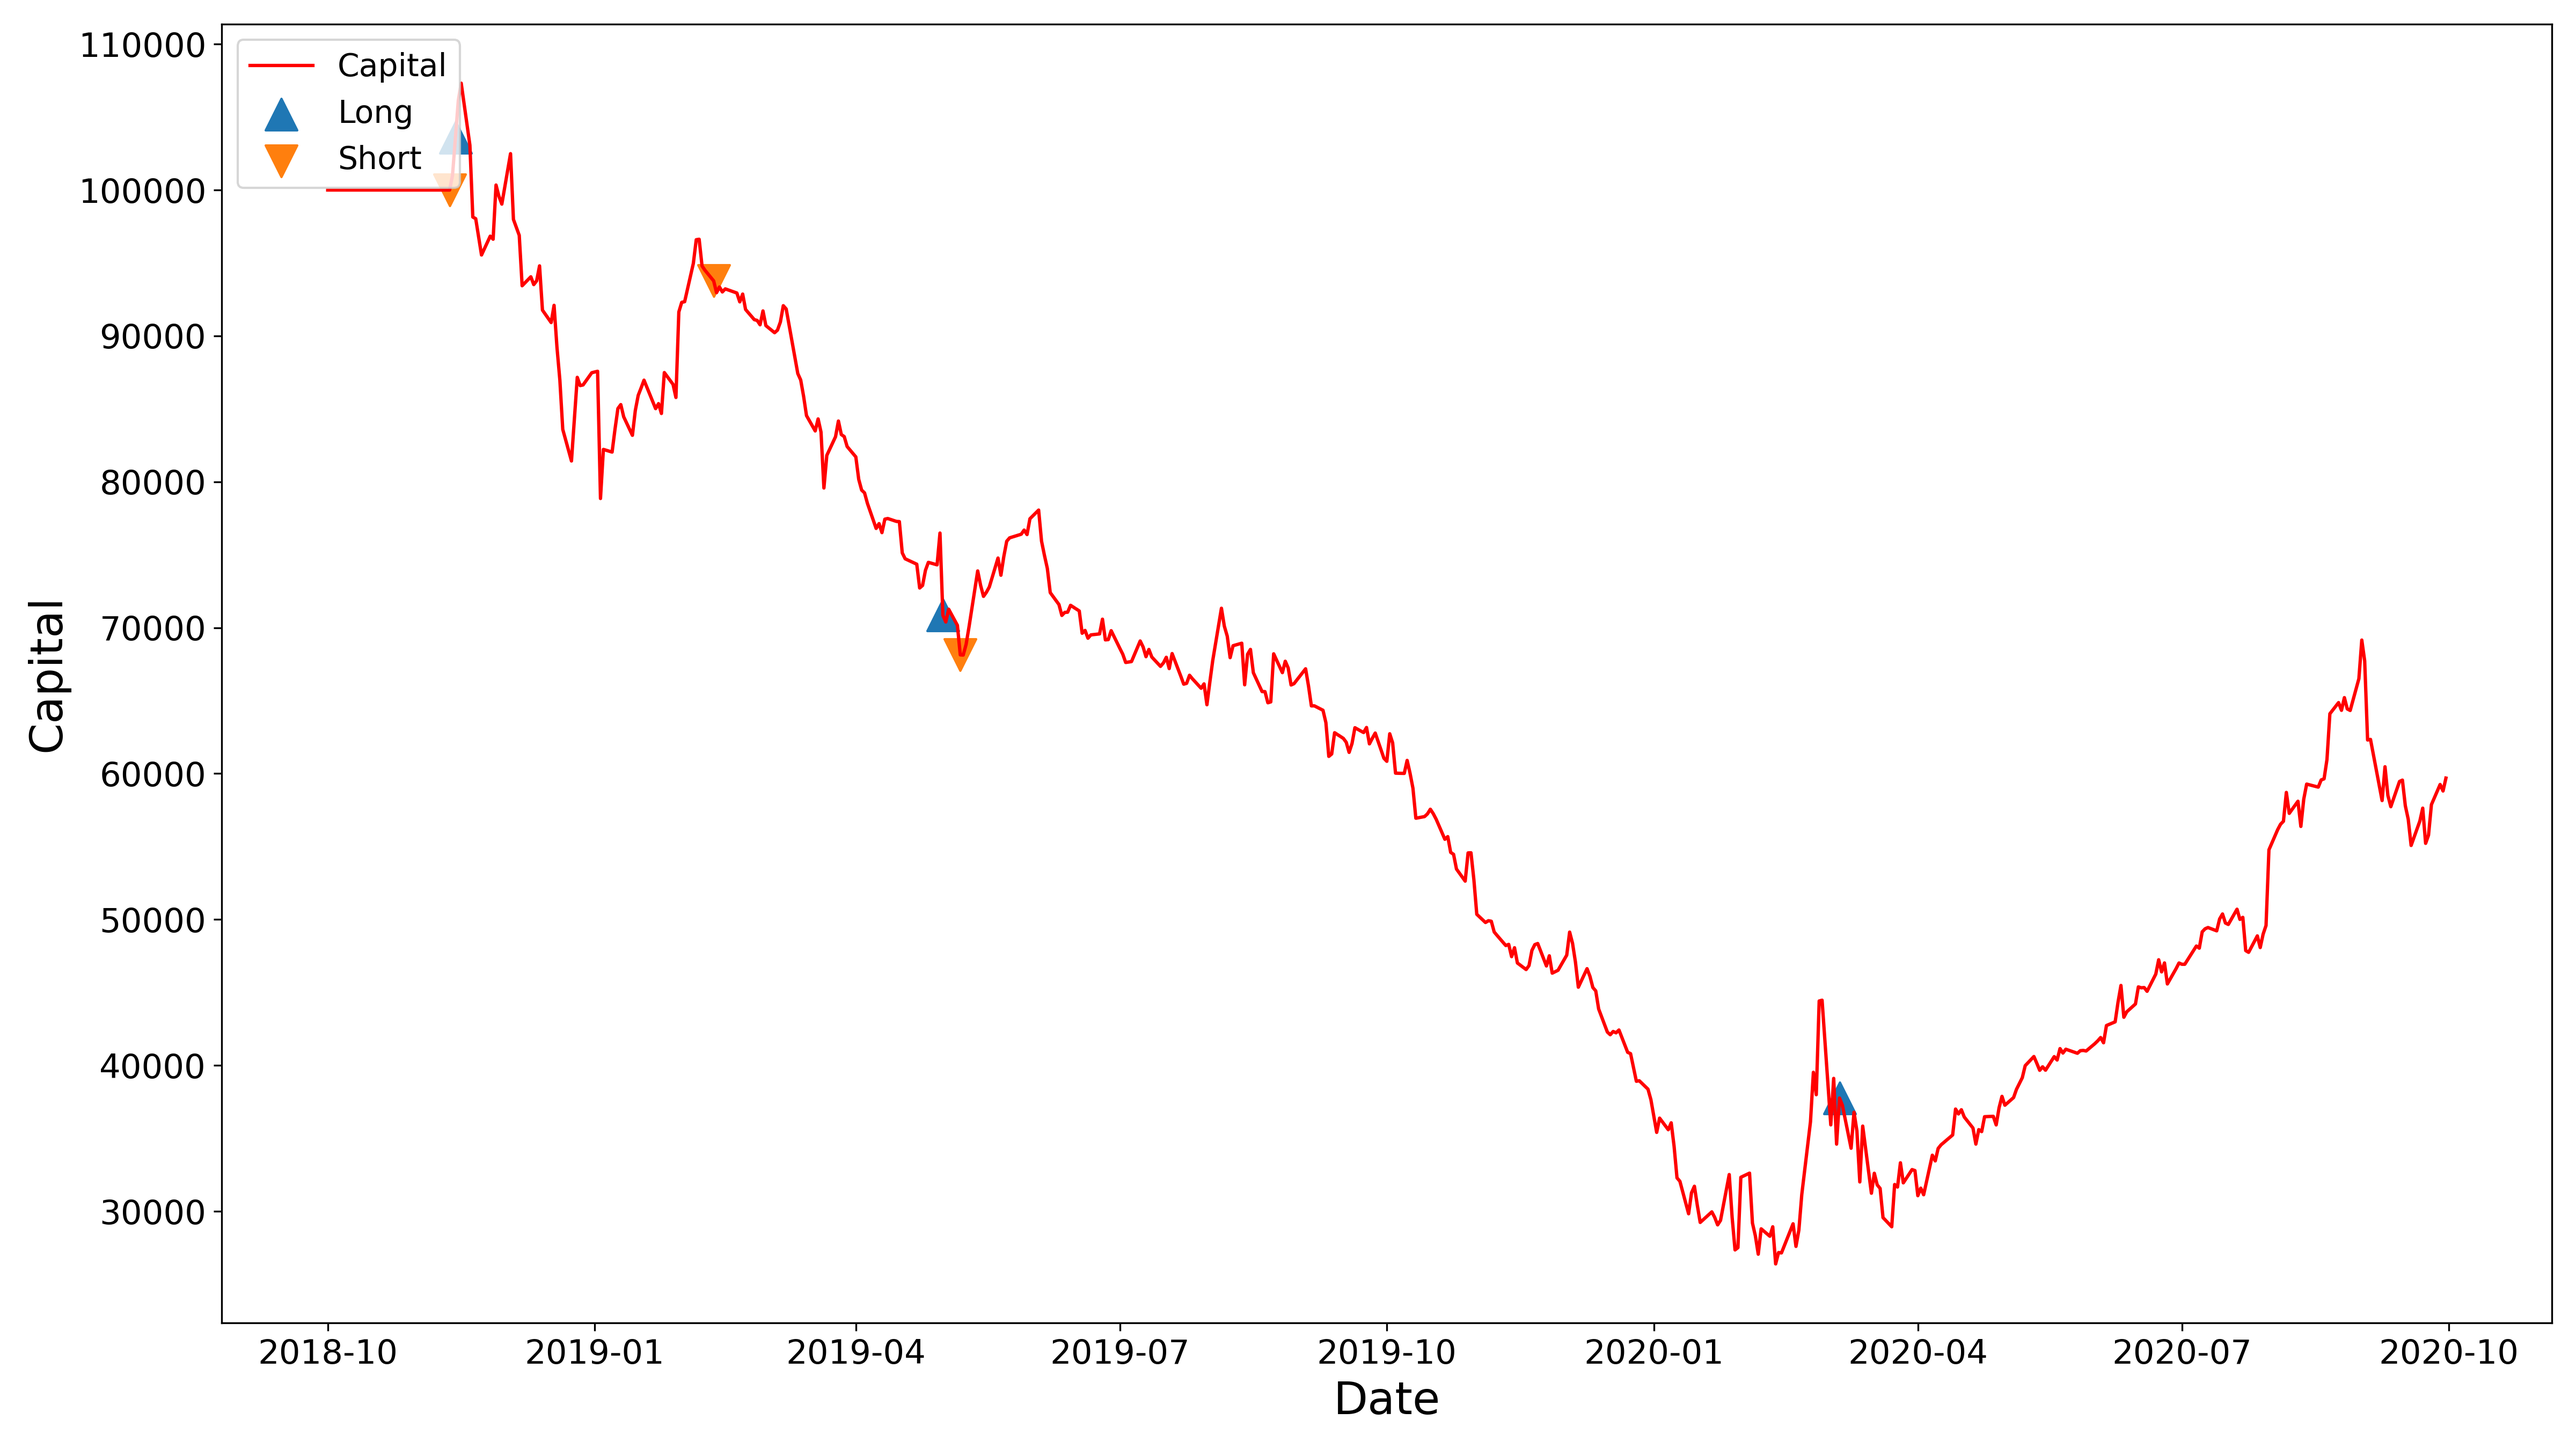
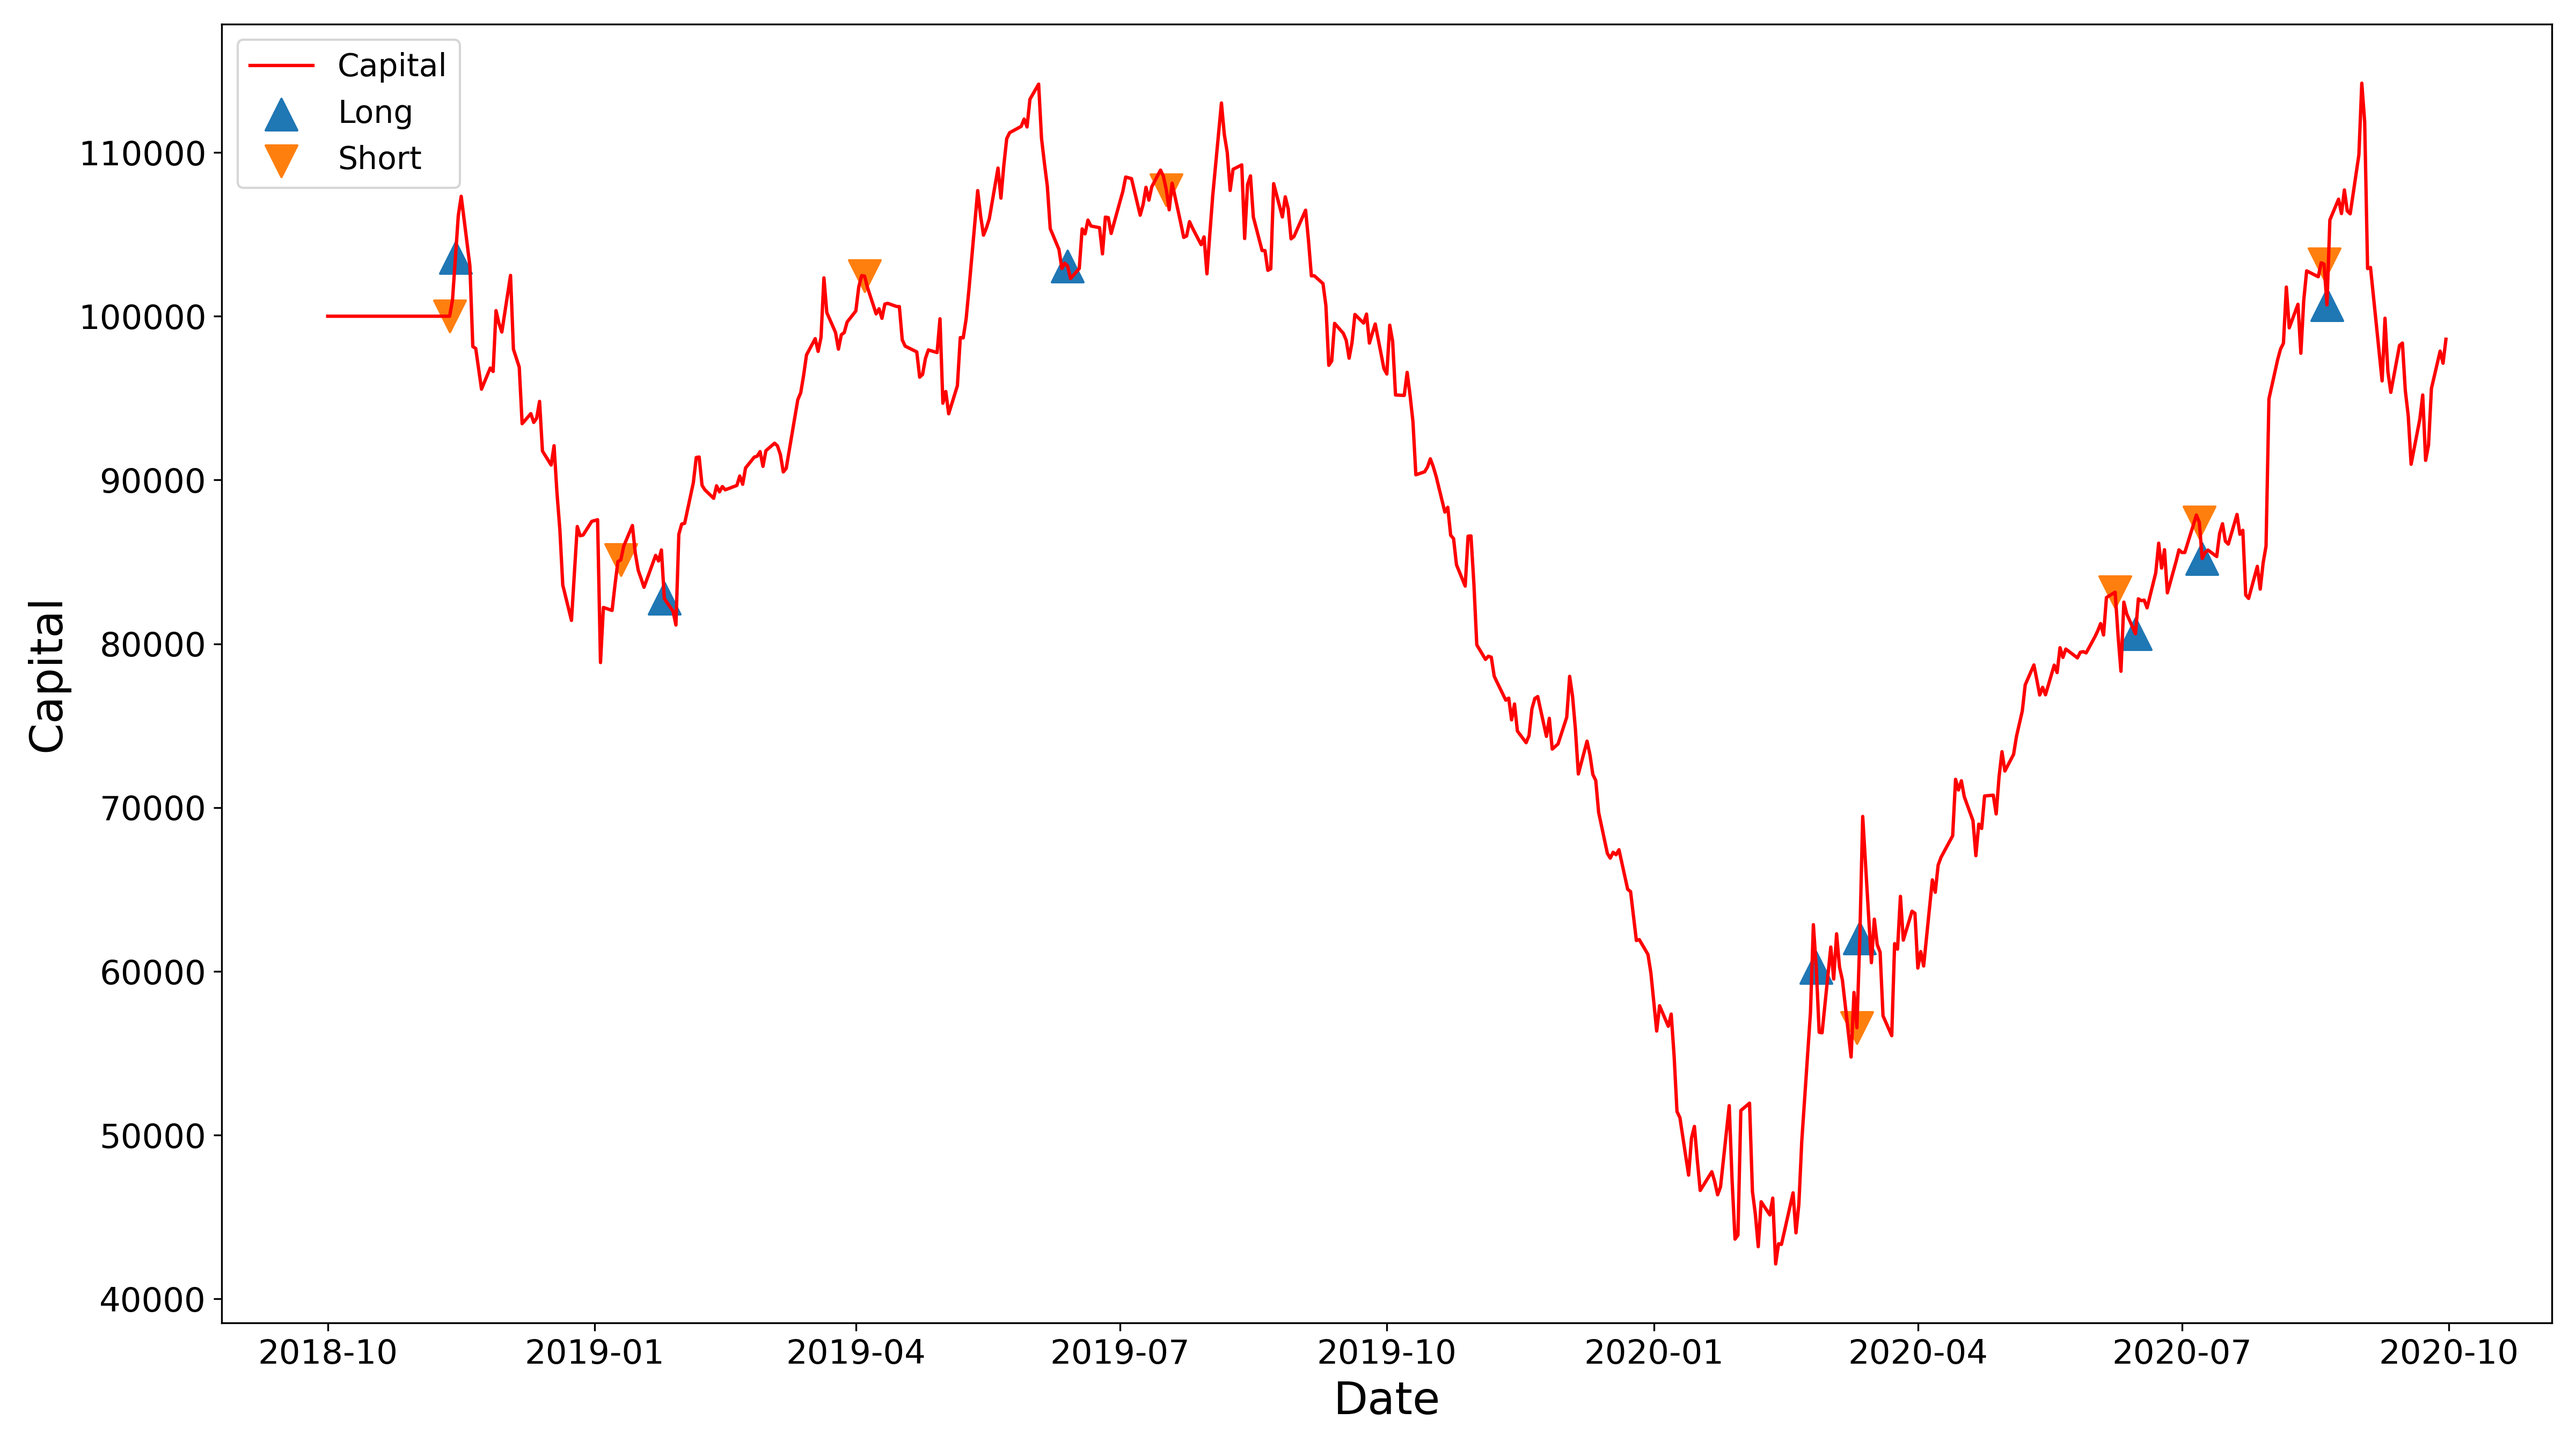
various training results are added

diff --git a/src/mainAAPL.py b/src/mainAAPL.py
@@ -11,9 +11,9 @@ import random
 import os
 
 device = torch.device('cuda:'+str(0) if torch.cuda.is_available() else 'cpu')
-torch.manual_seed(33)
-random.seed(33)
-np.random.seed(33)
+torch.manual_seed(0)
+random.seed(0)
+np.random.seed(0)
 
 # torch.manual_seed(44)
 # random.seed(44)
@@ -29,11 +29,11 @@ tdqnSettings = tdqn.tdqnSettings_(gamma=0.4,
                                   capacity=100000, 
                                   learningRate=0.0001,
                                   targetUpdateFrequency=500, 
-                                  batchSize=32, 
+                                  batchSize=64, 
                                   gradientClipping=1,
                                   targetNetworkUpdate = 1000, 
                                   alpha=0.1, 
-                                  numberOfEpisodes = 60,
+                                  numberOfEpisodes = 80,
                                   rewardClipping = 1
                                   )
 
@@ -71,7 +71,7 @@ def InitializeTrainingTesting(stockName, identifierString, verbose = False):
     TrainingEnvironment = te.TradingEnvironment(PositionTraining)
     TestingEnvironment = te.TradingEnvironment(PositionTesting)
     Agent = tdqn.TDQNAgent(TrainingEnvironment, TestingEnvironment, tdqnSettings, networkSettings, optimSettings)
-    Agent.Training(verbose=False)
+    Agent.Training(verbose=True)
     Agent.SaveModel(modelFileName)
     Agent.Testing()
     PositionTesting.PlotActionsCapital(figureFileName + "-Capital", showFlag=False)
@@ -98,7 +98,7 @@ def InitializeTesting(stockName, identifierString, verbose = False):
 
 if __name__ == "__main__":
     mp.set_start_method('spawn')
-    listOfStocksNames = ["AAPL", "ISCTR.IS"]
+    listOfStocksNames = ["AAPL"]
     identifier = "-1820-{}E-{}B-{}U".format(tdqnSettings.numberOfEpisodes, tdqnSettings.batchSize, tdqnSettings.targetNetworkUpdate)
 
     paths = ["Models", "Figures"]

diff --git a/src/mainISCTR.py b/src/mainISCTR.py
@@ -15,9 +15,6 @@ torch.manual_seed(33)
 random.seed(33)
 np.random.seed(33)
 
-# torch.manual_seed(44)
-# random.seed(44)
-# np.random.seed(44)
 
 
 networkSettings = tdqn.networkSettings_(inputLayerSize=117, hiddenLayerSize=512, outputLayerSize=2, dropout=0.2)
@@ -29,11 +26,11 @@ tdqnSettings = tdqn.tdqnSettings_(gamma=0.4,
                                   capacity=100000, 
                                   learningRate=0.0001,
                                   targetUpdateFrequency=500, 
-                                  batchSize=32, 
+                                  batchSize=64, 
                                   gradientClipping=1,
                                   targetNetworkUpdate = 1000, 
                                   alpha=0.1, 
-                                  numberOfEpisodes = 60,
+                                  numberOfEpisodes = 80,
                                   rewardClipping = 1
                                   )
 
@@ -71,7 +68,7 @@ def InitializeTrainingTesting(stockName, identifierString, verbose = False):
     TrainingEnvironment = te.TradingEnvironment(PositionTraining)
     TestingEnvironment = te.TradingEnvironment(PositionTesting)
     Agent = tdqn.TDQNAgent(TrainingEnvironment, TestingEnvironment, tdqnSettings, networkSettings, optimSettings)
-    Agent.Training(verbose=False)
+    Agent.Training(verbose=True)
     Agent.SaveModel(modelFileName)
     Agent.Testing()
     PositionTesting.PlotActionsCapital(figureFileName + "-Capital", showFlag=False)
@@ -98,7 +95,7 @@ def InitializeTesting(stockName, identifierString, verbose = False):
 
 if __name__ == "__main__":
     mp.set_start_method('spawn')
-    listOfStocksNames = ["AAPL", "ISCTR.IS"]
+    listOfStocksNames = ["ISCTR.IS"]
     identifier = "-1820-{}E-{}B-{}U".format(tdqnSettings.numberOfEpisodes, tdqnSettings.batchSize, tdqnSettings.targetNetworkUpdate)
 
     paths = ["Models", "Figures"]
